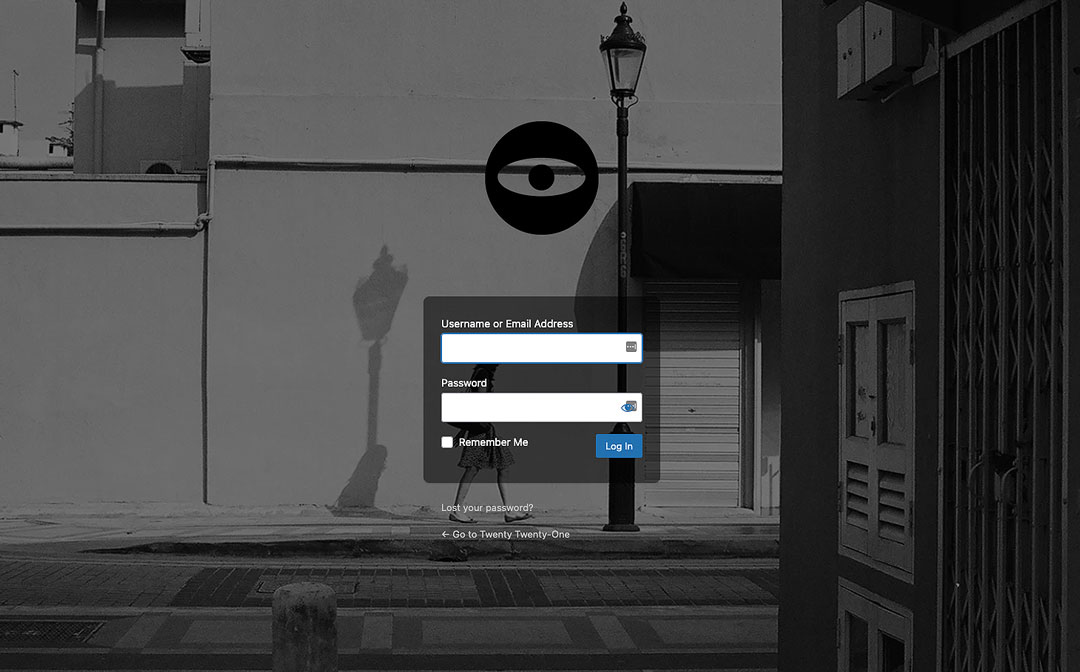
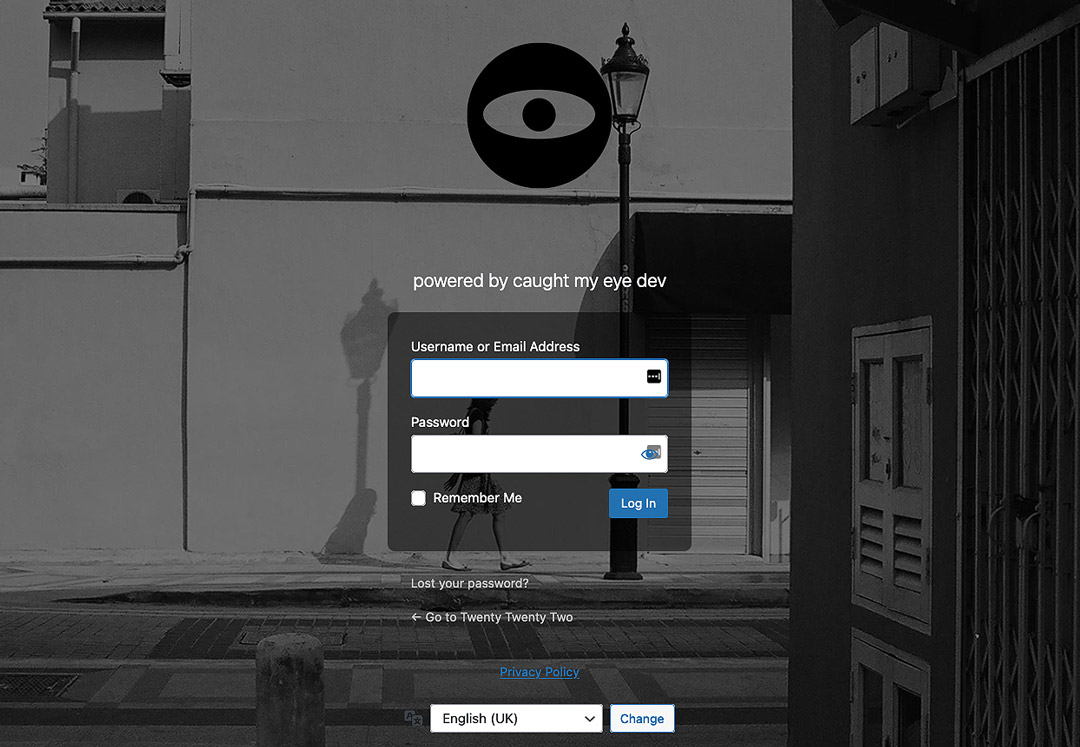
Custom heading text

Changed region(s): [[0.0, 0.0, 0.7333, 1.0], [0.7639, 0.0, 1.0, 1.0]]

diff --git a/cme-login.php b/cme-login.php
@@ -24,6 +24,12 @@ if (!defined('ABSPATH')) {
 function cme_login_logo()
 { ?>
 	<style>
+		.cmedev-login-message {
+			color: ghostwhite;
+			font-weight: 300;
+			margin: 1% 0;
+			text-align: center;
+		}
 		.login {
 			background: linear-gradient(rgba(0, 0, 0, 0.5), rgba(0, 0, 0, 0.5)), url(/wp-content/plugins/cme-login/assets/cewek-strideby-kampong-glam-ed-bw-wb.webp);
 			background-size: cover;
@@ -68,3 +74,11 @@ function cme_login_logo_url()
 	return home_url();
 }
 add_filter('login_headerurl', 'cme_login_logo_url');
+
+function cmedev_login_message( $message ) {
+    if ( empty( $message ) ) {
+        return "<h2 class='cmedev-login-message'>powered by caught my eye dev</h2>";
+    } 
+    return $message;
+}
+add_filter( 'login_message', 'cmedev_login_message' );
